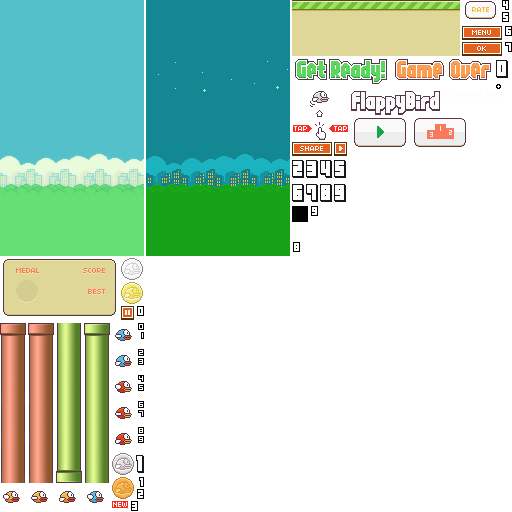
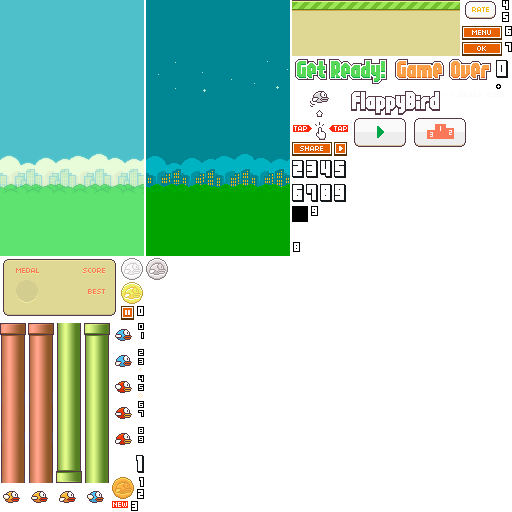
feat: Add score (#4)
* Add font

* Align text

* Update

* Increase score on pass pipe

diff --git a/Game.cpp b/Game.cpp
@@ -1,4 +1,5 @@
 #include <iostream>
+#include <string>
 #include <vector>
 
 #include "ActorManager.hpp"
@@ -13,6 +14,7 @@
 #include "PipesManager.hpp"
 #include "StageManager.hpp"
 #include "Surface.hpp"
+#include "Text.hpp"
 #include "Utils.hpp"
 #include <raylib.h>
 
@@ -20,6 +22,7 @@ using namespace std;
 
 Game::Game(Application *const app)
     : Interface(app), controlManager(nullptr), actorManager(nullptr), stageManager(nullptr) {
+  this->score = 0;
 
   this->controlManager = new ControlManager();
   controlManager->addPeripheral(this->app->getKeyboard());
@@ -27,11 +30,7 @@ Game::Game(Application *const app)
   this->actorManager = new ActorManager();
   this->stageManager = new StageManager(actorManager);
 
-  PipesManager *pipesManager = new PipesManager();
-  pipesManager->setVelocityX(-WITH_SCALE(1));
-  this->actorManager->add(pipesManager);
-
-  Bird *bird = new Bird(WITH_SCALE(143 / 2), 400, this);
+  this->bird = new Bird(WITH_SCALE(143 / 2), 400, this);
   Control *controlBird = new Control();
   controlBird->setOwner(bird);
 
@@ -39,11 +38,22 @@ Game::Game(Application *const app)
   controlBird->setActionPeripheral(BirdActions::BIRD_ACTION_JUMP, this->app->getKeyboard(),
                                    KeyboardKey::KEY_SPACE, Peripheral::ON_PRESS);
 
-  controlManager->addControl(controlBird);
-  actorManager->add(bird);
+  this->pipesManager = new PipesManager(this->bird);
+  pipesManager->setVelocityX(-WITH_SCALE(1));
+
+  this->actorManager->add(pipesManager);
+  this->controlManager->addControl(controlBird);
+  this->actorManager->add(bird);
 
   Surface *surface = new Surface(this);
   this->actorManager->add(surface);
+
+  this->textScore = new Text(Utils::FONT_SIZE::LARGE, WITH_SCALE(143 / 2), 100);
+  this->textScore->setText(to_string(this->score));
+
+  this->actorManager->add(this->textScore);
+
+  this->reinit();
 }
 
 void Game::draw() const {
@@ -55,13 +65,25 @@ void Game::update() {
   stageManager->update();
   controlManager->update();
   actorManager->update();
+
+  if (this->pipesManager->hasBirdPassedPipe()) {
+    this->score++;
+    this->textScore->setText(to_string(this->score));
+  }
+
+  DrawFPS(10, 10);
 }
 
 void Game::doAction(action_t action, int magnitute) {}
 
-void Game::reinit(){};
+void Game::reinit() {
+  this->score = 0;
+  this->textScore->setText(to_string(this->score));
+};
 
-void Game::over(){};
+void Game::over(){
+
+};
 
 Game::~Game() {
   delete this->controlManager;

diff --git a/PipesManager.cpp b/PipesManager.cpp
@@ -1,5 +1,6 @@
 #include <algorithm>
 
+#include "Bird.hpp"
 #include "Logger.h"
 #include "Pipe.hpp"
 #include "PipesManager.hpp"
@@ -8,7 +9,8 @@
 
 using namespace std;
 
-PipesManager::PipesManager() {
+PipesManager::PipesManager(Bird *bird) {
+  this->bird = bird;
   this->pipes.push_back(new Pipe());
   this->pipes.push_back(new Pipe());
   this->pipes.push_back(new Pipe());
@@ -37,18 +39,33 @@ void PipesManager::update() {
   for (size_t i = 0; i < this->pipes.size(); i++) {
     this->pipes[i]->position.x += this->velocityX;
 
-    LogError << "y: " << this->pipes[i]->position.y << std::endl;
-
     bool outOfScreen = this->pipes[i]->position.x < -WITH_SCALE(30);
     if (outOfScreen) {
       size_t previousPipeIdx = i == 0 ? this->pipes.size() - 1 : i - 1;
       this->pipes[i]->position.x =
           this->pipes[previousPipeIdx]->position.x + this->distanceBetweenPipes;
       this->pipes[i]->position.y = Utils::randomFloat(WITH_SCALE(-160), 0);
+      this->pipes[i]->setHasPassedBird(false);
     }
   }
 }
 
 void PipesManager::setVelocityX(const float &velocity) {
   this->velocityX = velocity;
+}
+
+bool PipesManager::hasBirdPassedPipe() {
+  for (auto &pipe : this->pipes) {
+    if (this->bird->position.x > pipe->position.x + (pipe->getWidth() / 2) &&
+        !pipe->hasPassedBird()) {
+      pipe->setHasPassedBird(true);
+      return true;
+    }
+  }
+
+  return false;
+}
+
+bool PipesManager::hasBirdCollided() const {
+  return false;
 }

diff --git a/Text.cpp b/Text.cpp
@@ -1,0 +1,44 @@
+#include <algorithm>
+
+#include "Logger.h"
+#include "R.hpp"
+#include "Text.hpp"
+#include "Utils.hpp"
+#include <raylib.h>
+
+using namespace std;
+
+Text::Text(const Utils::FONT_SIZE &size, const float &x, const float &y) : size(size) {
+  this->position = {x, y};
+}
+
+void Text::draw() const {
+  float initialX = this->getInitialX();
+
+  for (auto &c : this->text) {
+    DrawTextureRec(R::getSingleton().getTexture(R::TextureIds::FLAPPY_SPRITES),
+                   Utils::fontSources[Utils::FONT_SIZE::LARGE][c], {initialX, this->position.y},
+                   WHITE);
+    initialX += Utils::fontSources[Utils::FONT_SIZE::LARGE][c].width + WITH_SCALE(1.5);
+  }
+}
+
+void Text::update() {}
+
+void Text::setText(const string &text, const TEXT_ALIGN &align) {
+  this->text = text;
+  this->align = align;
+  this->textWidth = text.size() * Utils::fontSources[Utils::FONT_SIZE::LARGE]['0'].width;
+  this->textWidth += std::max(static_cast<float>(text.size() - 1), 0.0f) * WITH_SCALE(1.5);
+}
+
+float Text::getInitialX() const {
+  switch (this->align) {
+    case TEXT_ALIGN::LEFT:
+      return this->position.x;
+    case TEXT_ALIGN::CENTER:
+      return this->position.x - this->textWidth / 2;
+    case TEXT_ALIGN::RIGHT:
+      return this->position.x - this->textWidth;
+  }
+}

diff --git a/Utils.cpp b/Utils.cpp
@@ -1,8 +1,30 @@
 #include <cstdlib>
 #include <ctime>
 
+#include <map>
+
 #include "Utils.hpp"
+
+using namespace std;
 
 float Utils::randomFloat(const float &min, const float &max) {
   return min + static_cast<float>(rand()) / (static_cast<float>(RAND_MAX / (max - min)));
 }
+
+std::unordered_map<Utils::FONT_SIZE, std::unordered_map<char, Rectangle>> Utils::fontSources = {
+
+    {Utils::FONT_SIZE::LARGE,
+     {
+         {'0', {WITH_SCALE(496), WITH_SCALE(60), WITH_SCALE(12), WITH_SCALE(18)}},
+         {'1', {WITH_SCALE(132), WITH_SCALE(455), WITH_SCALE(12), WITH_SCALE(18)}},
+         {'2', {WITH_SCALE(292), WITH_SCALE(160), WITH_SCALE(12), WITH_SCALE(18)}},
+         {'3', {WITH_SCALE(306), WITH_SCALE(160), WITH_SCALE(12), WITH_SCALE(18)}},
+         {'4', {WITH_SCALE(320), WITH_SCALE(160), WITH_SCALE(12), WITH_SCALE(18)}},
+         {'5', {WITH_SCALE(334), WITH_SCALE(160), WITH_SCALE(12), WITH_SCALE(18)}},
+         {'6', {WITH_SCALE(292), WITH_SCALE(184), WITH_SCALE(12), WITH_SCALE(18)}},
+         {'7', {WITH_SCALE(306), WITH_SCALE(184), WITH_SCALE(12), WITH_SCALE(18)}},
+         {'8', {WITH_SCALE(320), WITH_SCALE(184), WITH_SCALE(12), WITH_SCALE(18)}},
+         {'9', {WITH_SCALE(334), WITH_SCALE(184), WITH_SCALE(12), WITH_SCALE(18)}},
+     }},
+
+};

diff --git a/Text.hpp b/Text.hpp
@@ -1,0 +1,33 @@
+#pragma once
+#ifndef TEXT_HPP
+#define TEXT_HPP
+
+#include <string>
+
+#include "Actor.hpp"
+#include "Game.hpp"
+#include "Utils.hpp"
+
+using namespace std;
+
+class Text : public Actor {
+public:
+  Text(const Utils::FONT_SIZE &size, const float &x, const float &y);
+
+  virtual void draw() const override;
+  virtual void update() override;
+
+  enum class TEXT_ALIGN { LEFT = 1, CENTER, RIGHT };
+
+  void setText(const string &text, const TEXT_ALIGN &align = TEXT_ALIGN::CENTER);
+
+private:
+  Utils::FONT_SIZE size;
+  string text;
+  float textWidth;
+  TEXT_ALIGN align;
+
+  float getInitialX() const;
+};
+
+#endif // !TEXT_HPP

diff --git a/PipesManager.hpp b/PipesManager.hpp
@@ -5,15 +5,19 @@
 #include <vector>
 
 #include "Actor.hpp"
+#include "Bird.hpp"
 #include "Game.hpp"
 #include "Pipe.hpp"
 #include "Sprite.hpp"
 
 using namespace std;
 
+class Bird;
+class Pipe;
+
 class PipesManager : public Actor {
 public:
-  PipesManager();
+  PipesManager(Bird *bird);
 
   virtual void draw() const override;
   virtual void update() override;
@@ -21,9 +25,12 @@ public:
   void resetPipes();
   void setVelocityX(const float &velocity);
 
+  bool hasBirdPassedPipe();
+  bool hasBirdCollided() const;
+
 private:
   vector<Pipe *> pipes;
-
+  Bird *bird;
   float velocityX;
   float distanceBetweenPipes;
 };

diff --git a/Game.hpp b/Game.hpp
@@ -8,9 +8,12 @@
 #include "ControlManager.hpp"
 #include "ControllableObject.hpp"
 #include "Interface.hpp"
+#include "PipesManager.hpp"
 #include "StageManager.hpp"
+#include "Text.hpp"
 
 class ActorManager;
+class Text;
 
 class Game : public Interface, public ControllableObject {
 public:
@@ -29,6 +32,14 @@ private:
   ControlManager *controlManager;
   ActorManager *actorManager;
   StageManager *stageManager;
+
+  PipesManager *pipesManager;
+  Bird *bird;
+
+  Text *textScore;
+
+  // Game states
+  int score;
 };
 
 #endif // !GAME_HPP

diff --git a/Pipe.cpp b/Pipe.cpp
@@ -8,6 +8,7 @@
 using namespace std;
 
 Pipe::Pipe() {
+  this->_hasPassedBird = false;
   this->initializeSprites();
 }
 
@@ -39,3 +40,15 @@ void Pipe::draw() const {
 }
 
 void Pipe::update() {}
+
+float Pipe::getWidth() const {
+  return WITH_SCALE(26);
+}
+
+void Pipe::setHasPassedBird(const bool &hasPassedBird) {
+  this->_hasPassedBird = hasPassedBird;
+}
+
+bool Pipe::hasPassedBird() const {
+  return this->_hasPassedBird;
+}

diff --git a/Utils.hpp b/Utils.hpp
@@ -2,10 +2,18 @@
 #ifndef UTILS_HPP
 #define UTILS_HPP
 
+#include <raylib.h>
+
+using namespace std;
+
 #define WITH_SCALE(value) (value * 4)
 
 namespace Utils {
   float randomFloat(const float &min, const float &max);
+
+  enum FONT_SIZE { LARGE = 64 };
+
+  extern unordered_map<FONT_SIZE, unordered_map<char, Rectangle>> fontSources;
 } // namespace Utils
 
 #endif // !UTILS_HPP

diff --git a/Pipe.hpp b/Pipe.hpp
@@ -13,8 +13,14 @@ public:
   virtual void draw() const override;
   virtual void update() override;
 
+  void setHasPassedBird(const bool &hasPassedBird);
+
+  float getWidth() const;
+  bool hasPassedBird() const;
+
 private:
   void initializeSprites();
+  bool _hasPassedBird;
 
   Sprite spritePipeTop;
   Sprite spritePipeBottom;

diff --git a/R.hpp b/R.hpp
@@ -18,7 +18,7 @@ public:
 
   enum TextureIds { FLAPPY_SPRITES = 1 };
 
-  enum FontIds { ART = 1 };
+  enum FontIds { FLAPPY_FONT = 1 };
 
   Texture2D getTexture(const TextureIds &textureId) const;
   Font getFont(const FontIds &fontId) const;

diff --git a/R.cpp b/R.cpp
@@ -22,7 +22,6 @@ R &R::getSingleton() {
 }
 
 void R::loadResources() {
-  // Change scale in withScale at Util.hpp
   this->textures.insert(
       {R::TextureIds::FLAPPY_SPRITES, LoadTexture("resources/flappy-bird_x4.png")});
 }
